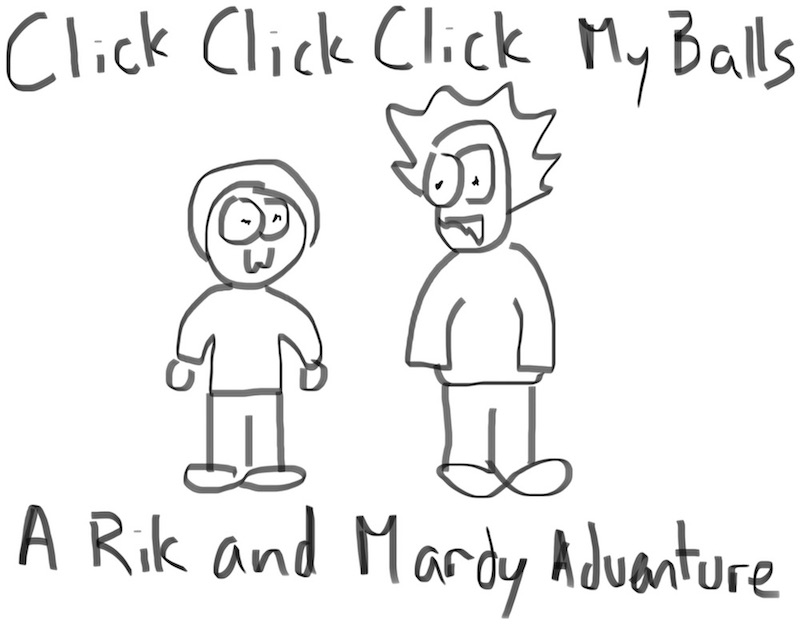
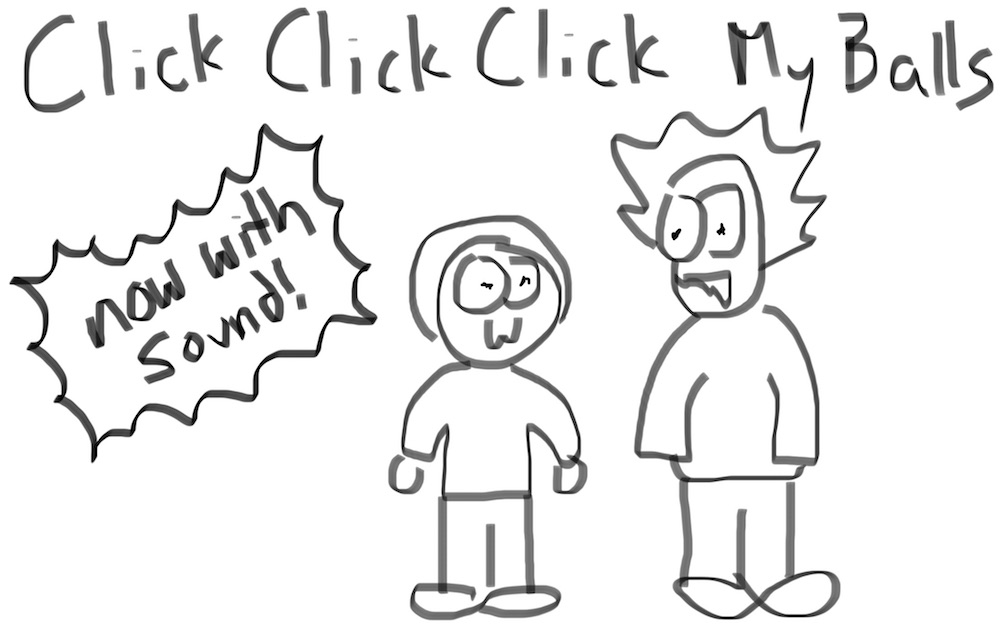
Add assets, fix dialog placement

diff --git a/index.js b/index.js
@@ -1,7 +1,7 @@
 var title = `
 <img src="./assets/title.jpg" usemap="#image-map">
 <map name="image-map">
-    <area target="" alt="start" title="start" coords="989,769,6,16" shape="rect">
+    <area target="" alt="start" title="start" coords="1000,700,0,0" shape="rect">
 </map>`;
 
 var yard = `
@@ -60,8 +60,8 @@ function showDialogue(acc, callback){
     dialogue.style.display = "inline";
     var maxAudio = 0;
     switch (person) {
-      case "Mardy": maxAudio = 4;
-      case "Rik": maxAudio = 3;
+      case "Mardy": maxAudio = 6;
+      case "Rik": maxAudio = 5;
       case "Steelee": maxAudio = 2;
     };
     let audiofile = person + (((Math.random() * maxAudio) | 0) + 1);

diff --git a/index.html b/index.html
@@ -6,7 +6,7 @@
   <body style="user-select: none">
     <center>
     <div id="scene"></div>
-    <div id="dialogue" style="display:none;background-color:white;border:4px dotted grey;width:400px;padding:20px;position:fixed;top:550px;left:400px"></div>
+    <div id="dialogue" style="display:none;background-color:white;border:4px dotted grey;width:400px;padding:20px;position:absolute;top:25em;left:20em"></div>
     <div id="clicker" style="top:0px;left:0px;bottom:0px;right:0px;display:none;position:absolute" />
     <div id="music"></div>
     </center>
